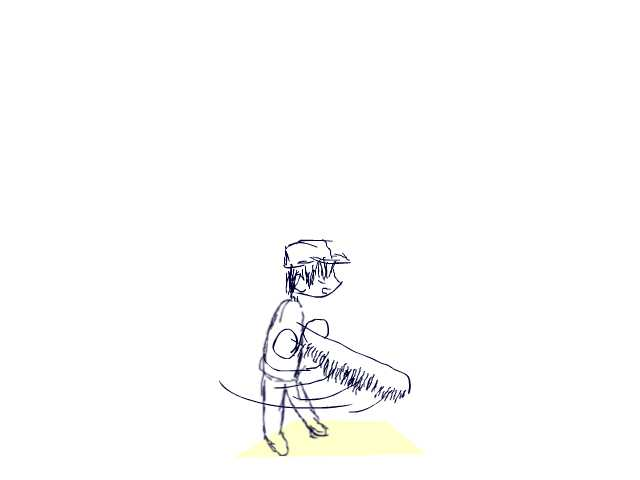
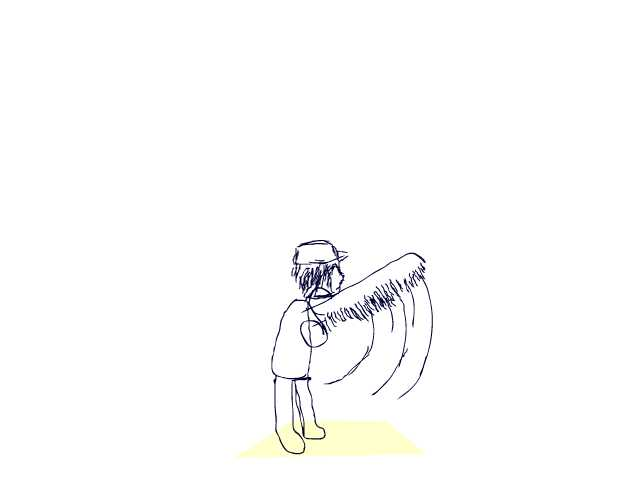
FINAL

Changed region(s): [[0.375, 0.5, 0.6875, 0.9688], [0.6562, 0.75, 0.6875, 0.7812], [0.625, 0.7188, 0.6562, 0.75]]

diff --git a/main.py b/main.py
@@ -18,8 +18,6 @@ def qkc():
     #put all qubits into 3 classical bit string
     qc.measure([0, 1, 2], [0, 1, 2])
 
-    print(qc.draw())
-
     #run simulation
     backend = AerSimulator()
     result = backend.run(qc, shots=1).result()
@@ -58,7 +56,7 @@ HIT_TIMER = 0
 IDLE_index = 1
 IDLE_max = 5
 hit = False
-BALL_frame = 15
+BALL_frame = 0
 swing_index = 1
 swing_max = 3
 throw = {"speed": 0,"type": 0}
@@ -77,16 +75,12 @@ def int_main():
     #ball code
     if HIT_TIMER == 0:
         throw = qkc()
-        print(repr(throw))
         HIT_TIMER = throw['speed']*15+14
     else:
         HIT_TIMER = INC(HIT_TIMER, HIT_TIMER + 1, -1)
-    
-    print(HIT_TIMER)
 
     BALL_frame = min(14, max(0, INC(BALL_frame, 14, throw['speed']) if HIT_TIMER <= 14 else (14 if BALL_frame >= 14 else 0)))   
     ballmg = pygame.image.load(throw['type'] + str(BALL_frame).zfill(4) + ".jpg")
-    print("ball" + str(BALL_frame))
     #end ball code
     screen.blit(ballmg, (0,0))
     if not hit:
@@ -98,9 +92,13 @@ def int_main():
     else:
         tpmg = pygame.image.load("HIT_" + str(swing_index) + ".jpg")
         swing_index = swing_index + 1
+        tmps = swing_index
+        SCOREBOARD += BALL_frame
         if swing_index >= swing_max:
             hit = False
             swing_index = 1
+            print("You hit the ball and scored " + str(BALL_frame) + " points!")
+            print("Your score is now: " + str(SCOREBOARD))
 
         #draw
         screen.blit(tpmg, (0,0))
